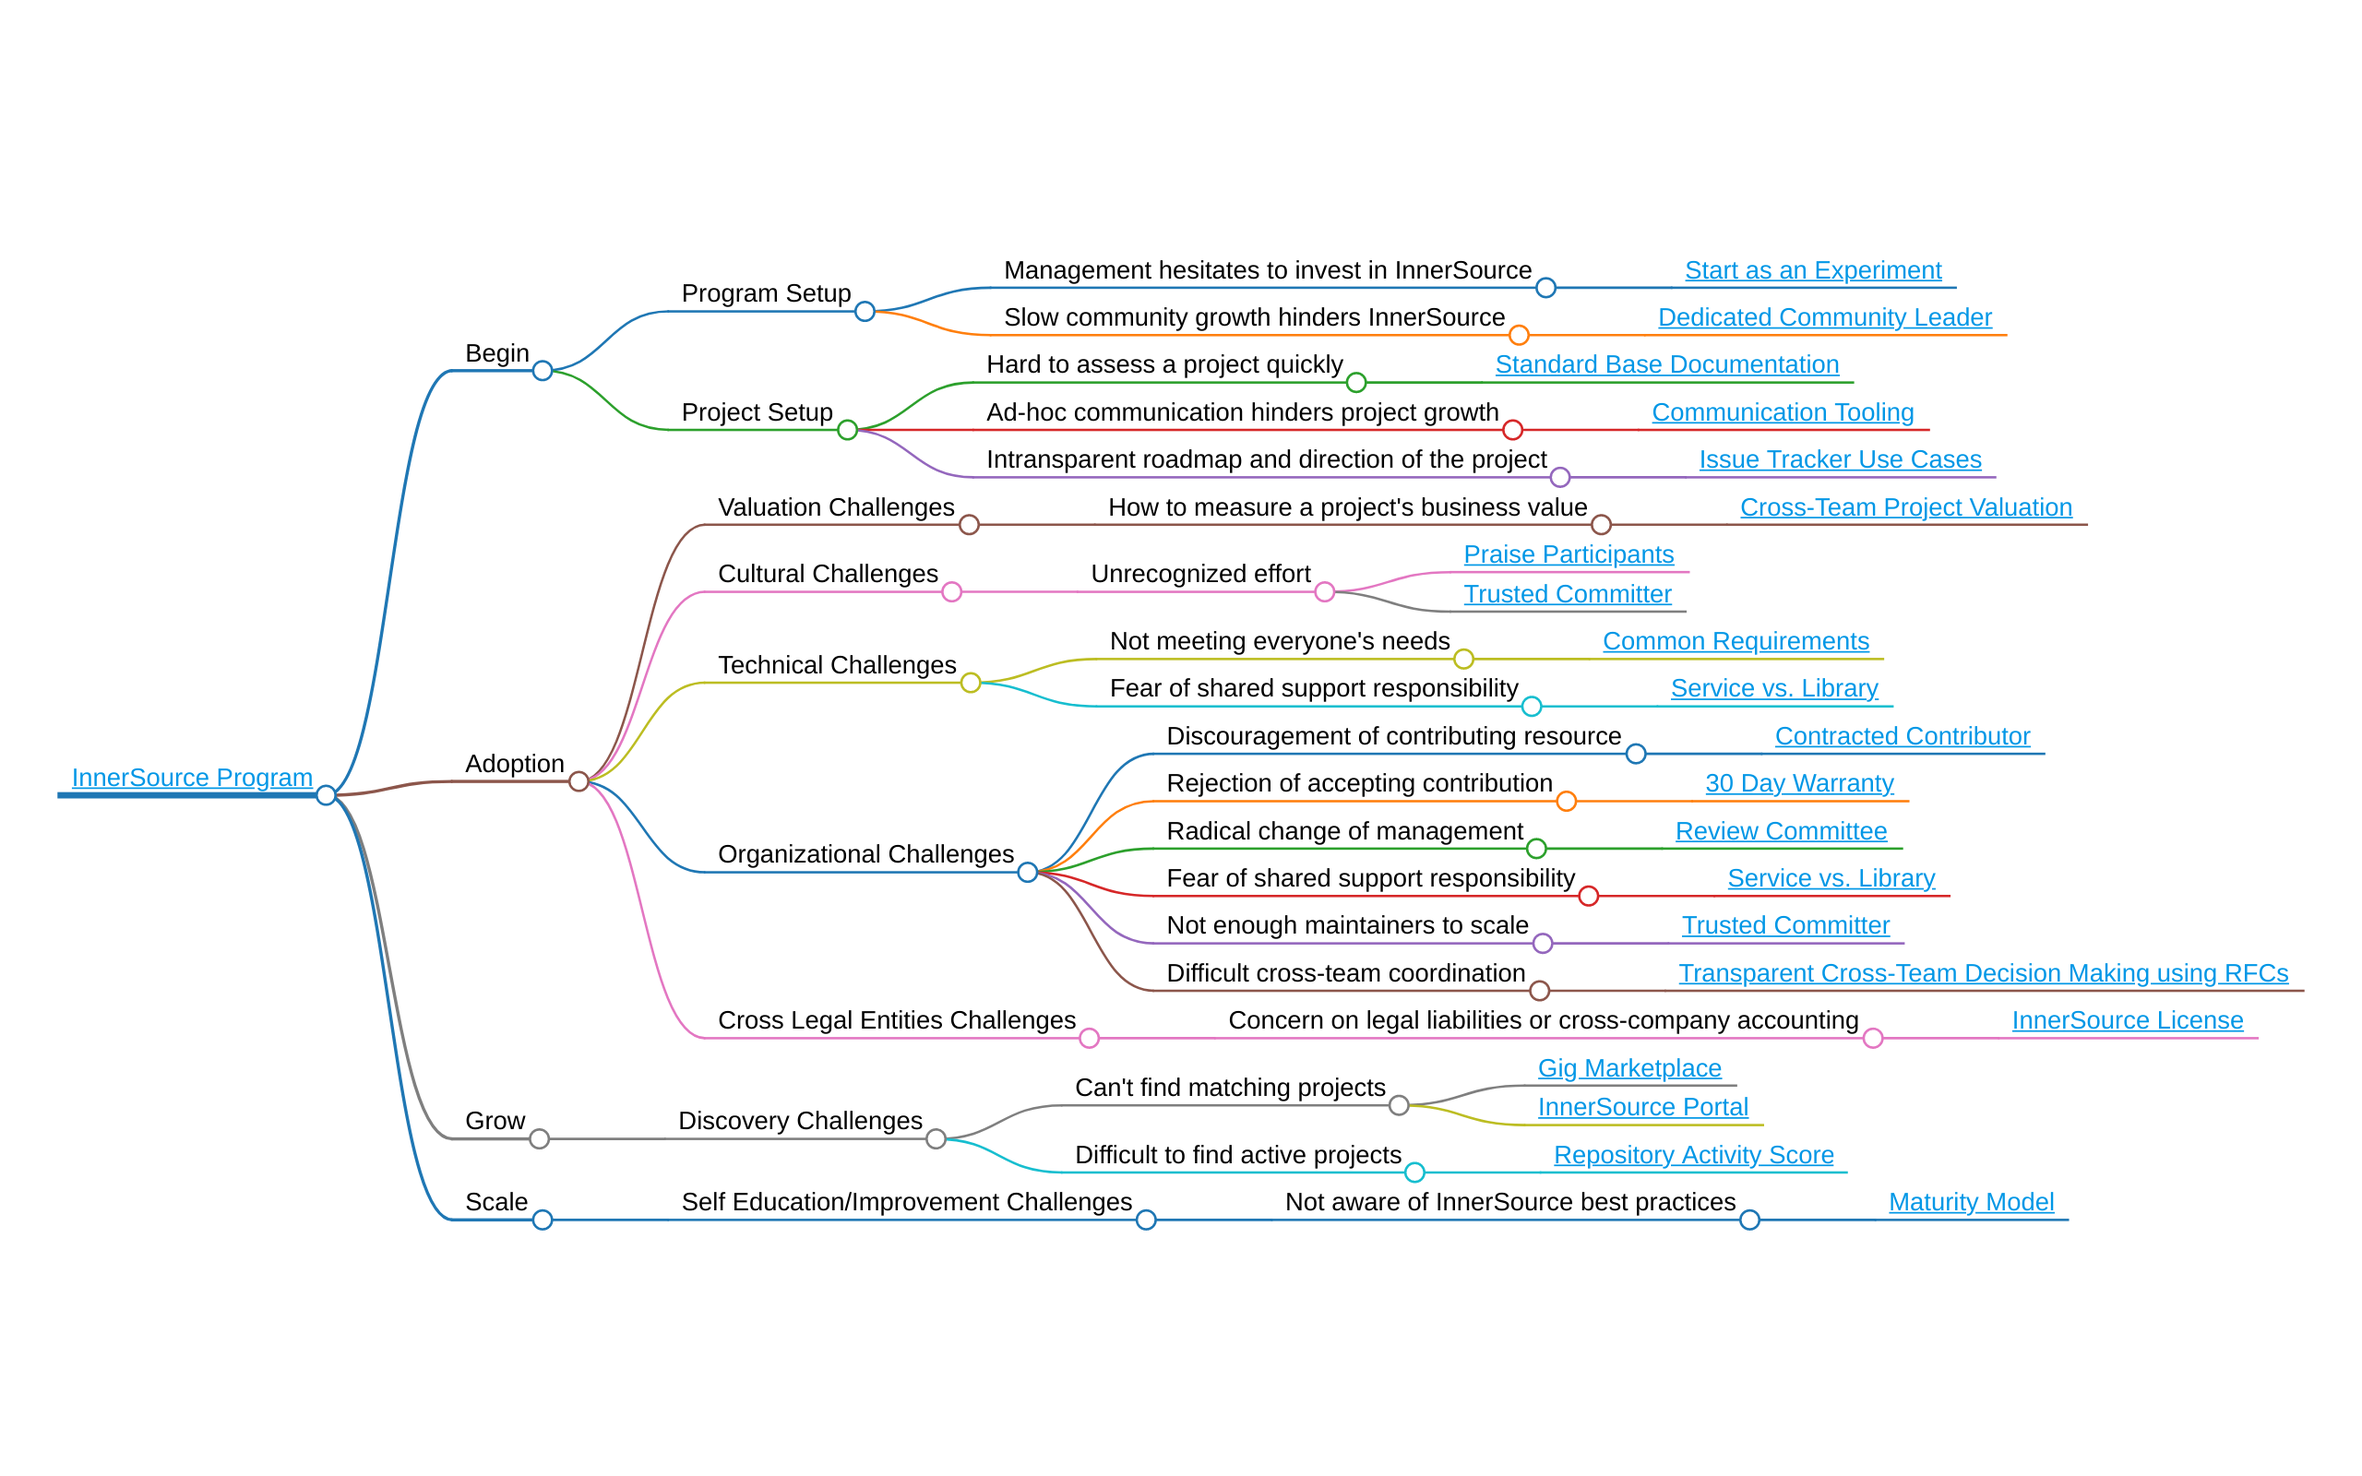
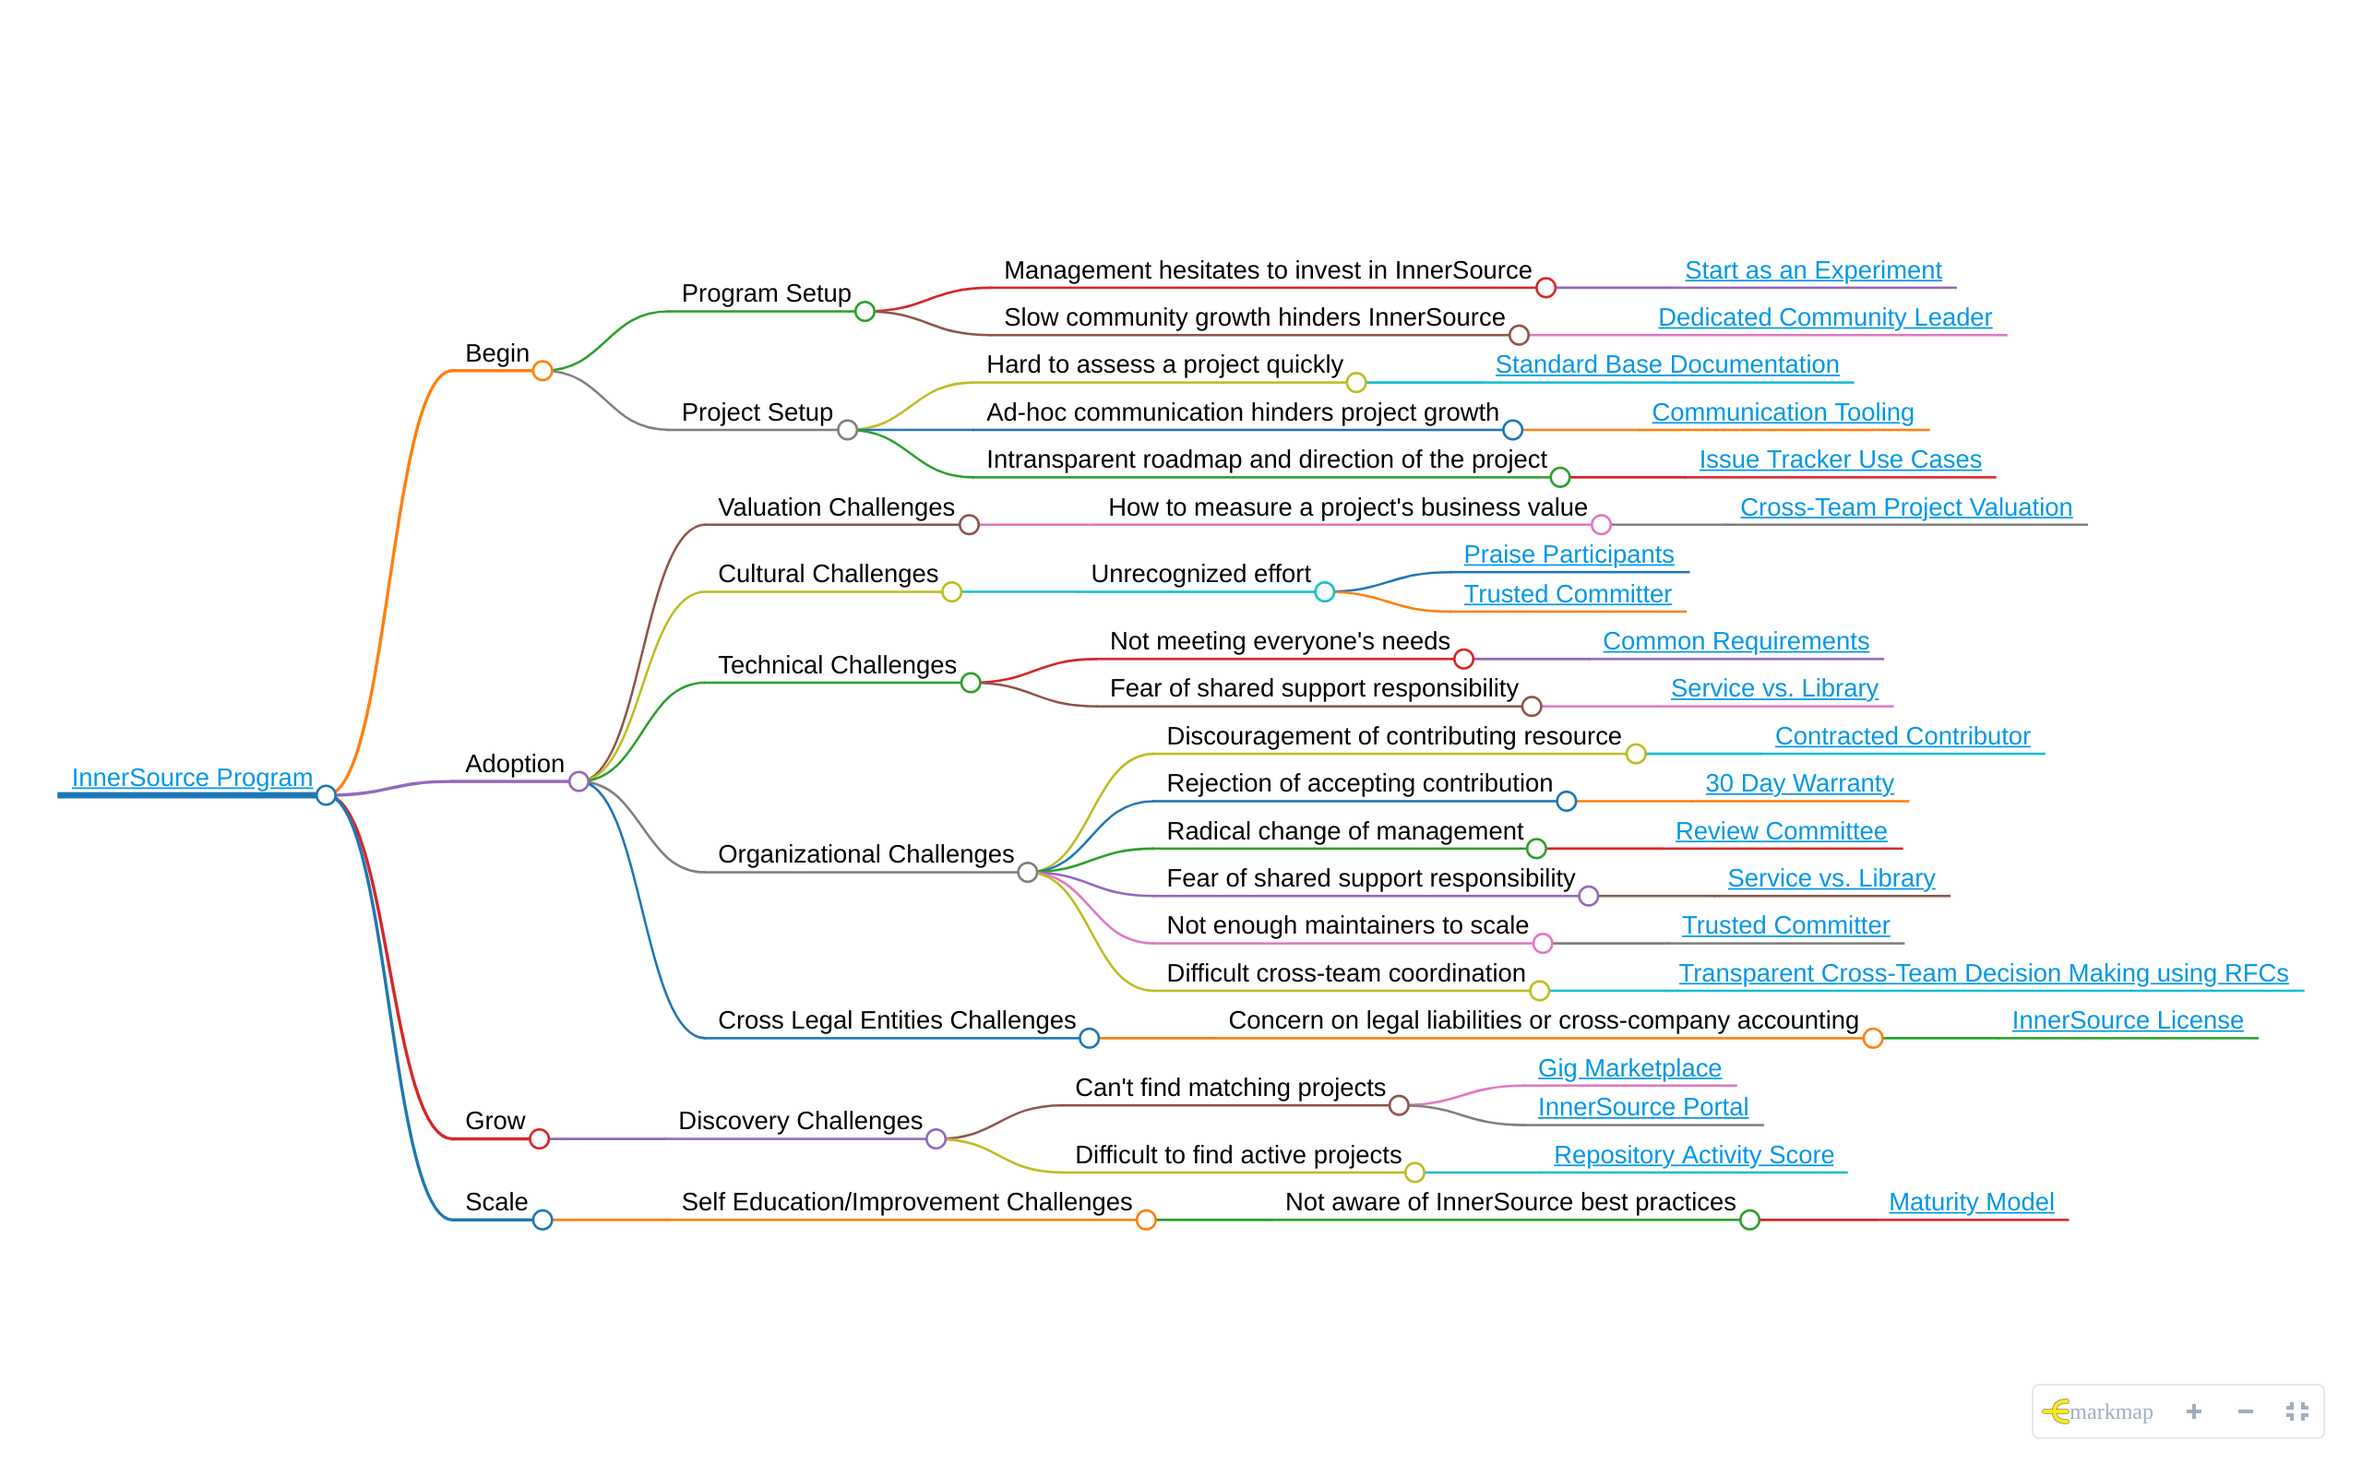
Re-creating markmap and screenshot

diff --git a/pattern-categorization/innersource-program-mind-map.html b/pattern-categorization/innersource-program-mind-map.html
@@ -16,16 +16,27 @@
   height: 100vh;
 }
 </style>
-
+<link rel="stylesheet" href="https://cdn.jsdelivr.net/npm/markmap-toolbar@0.1.6/dist/style.min.css">
 </head>
 <body>
 <svg id="mindmap"></svg>
-<script src="https://cdn.jsdelivr.net/npm/d3@5"></script><script src="https://cdn.jsdelivr.net/npm/markmap-lib@0.7.6/dist/browser/view.min.js"></script><script>((data, ...processors) => {
+<script src="https://cdn.jsdelivr.net/npm/d3@6.6.0"></script><script src="https://cdn.jsdelivr.net/npm/markmap-view@0.2.6"></script><script src="https://cdn.jsdelivr.net/npm/markmap-toolbar@0.1.6/dist/index.umd.min.js"></script><script>(r => {
+          setTimeout(r);
+        })(() => {
+  const {
+    markmap,
+    mm
+  } = window;
+  const toolbar = new markmap.Toolbar();
+  toolbar.attach(mm);
+  const el = toolbar.render();
+  el.setAttribute('style', 'position:absolute;bottom:20px;right:20px');
+  document.body.append(el);
+})</script><script>((getMarkmap, getOptions, data) => {
         const {
           Markmap
-        } = window.markmap;
-        Markmap.processors = processors;
-        Markmap.create('svg#mindmap', null, data);
-      })({"t":"heading","d":1,"v":"<a href=\"https://patterns.innersourcecommons.org/toc\" title=\"\" target=\"_blank\" rel=\"noopener noreferrer\">InnerSource Program</a>","c":[{"t":"heading","d":2,"v":"Begin","c":[{"t":"heading","d":3,"v":"Program Setup","c":[{"t":"heading","d":4,"v":"Management hesitates to invest in InnerSource","c":[{"t":"heading","d":5,"v":"<a href=\"https://patterns.innersourcecommons.org/p/start-as-experiment\" title=\"\" target=\"_blank\" rel=\"noopener noreferrer\">Start as an Experiment</a>"}]},{"t":"heading","d":4,"v":"Slow community growth hinders InnerSource","c":[{"t":"heading","d":5,"v":"<a href=\"https://patterns.innersourcecommons.org/p/dedicated-community-leader\" title=\"\" target=\"_blank\" rel=\"noopener noreferrer\">Dedicated Community Leader</a>"}]}]},{"t":"heading","d":3,"v":"Project Setup","c":[{"t":"heading","d":4,"v":"Hard to assess a project quickly","c":[{"t":"heading","d":5,"v":"<a href=\"https://patterns.innersourcecommons.org/p/base-documentation\" title=\"\" target=\"_blank\" rel=\"noopener noreferrer\">Standard Base Documentation</a>"}]},{"t":"heading","d":4,"v":"Ad-hoc communication hinders project growth","c":[{"t":"heading","d":5,"v":"<a href=\"https://patterns.innersourcecommons.org/p/communication-tooling\" title=\"\" target=\"_blank\" rel=\"noopener noreferrer\">Communication Tooling</a>"}]},{"t":"heading","d":4,"v":"Intransparent roadmap and direction of the project","c":[{"t":"heading","d":5,"v":"<a href=\"https://patterns.innersourcecommons.org/p/issue-tracker\" title=\"\" target=\"_blank\" rel=\"noopener noreferrer\">Issue Tracker Use Cases</a>"}]}]}]},{"t":"heading","d":2,"v":"Adoption","c":[{"t":"heading","d":3,"v":"Valuation Challenges","c":[{"t":"heading","d":4,"v":"How to measure a project's business value","c":[{"t":"heading","d":5,"v":"<a href=\"https://patterns.innersourcecommons.org/p/crossteam-project-valuation\" title=\"\" target=\"_blank\" rel=\"noopener noreferrer\">Cross-Team Project Valuation</a>"}]}]},{"t":"heading","d":3,"v":"Cultural Challenges","c":[{"t":"heading","d":4,"v":"Unrecognized effort","c":[{"t":"heading","d":5,"v":"<a href=\"https://patterns.innersourcecommons.org/p/praise-participants\" title=\"\" target=\"_blank\" rel=\"noopener noreferrer\">Praise Participants</a>"},{"t":"heading","d":5,"v":"<a href=\"https://patterns.innersourcecommons.org/p/trusted-committer\" title=\"\" target=\"_blank\" rel=\"noopener noreferrer\">Trusted Committer</a>"}]}]},{"t":"heading","d":3,"v":"Technical Challenges","c":[{"t":"heading","d":4,"v":"Not meeting everyone's needs","c":[{"t":"heading","d":5,"v":"<a href=\"https://patterns.innersourcecommons.org/p/common-requirements\" title=\"\" target=\"_blank\" rel=\"noopener noreferrer\">Common Requirements</a>"}]},{"t":"heading","d":4,"v":"Fear of shared support responsibility","c":[{"t":"heading","d":5,"v":"<a href=\"https://patterns.innersourcecommons.org/p/service-vs-library\" title=\"\" target=\"_blank\" rel=\"noopener noreferrer\">Service vs. Library</a>"}]}]},{"t":"heading","d":3,"v":"Organizational Challenges","c":[{"t":"heading","d":4,"v":"Discouragement of contributing resource","c":[{"t":"heading","d":5,"v":"<a href=\"https://patterns.innersourcecommons.org/p/contracted-contributor\" title=\"\" target=\"_blank\" rel=\"noopener noreferrer\">Contracted Contributor</a>"}]},{"t":"heading","d":4,"v":"Rejection of accepting contribution","c":[{"t":"heading","d":5,"v":"<a href=\"https://patterns.innersourcecommons.org/p/30-day-warranty\" title=\"\" target=\"_blank\" rel=\"noopener noreferrer\">30 Day Warranty</a>"}]},{"t":"heading","d":4,"v":"Radical change of management","c":[{"t":"heading","d":5,"v":"<a href=\"https://patterns.innersourcecommons.org/p/review-committee\" title=\"\" target=\"_blank\" rel=\"noopener noreferrer\">Review Committee</a>"}]},{"t":"heading","d":4,"v":"Fear of shared support responsibility","c":[{"t":"heading","d":5,"v":"<a href=\"https://patterns.innersourcecommons.org/p/service-vs-library\" title=\"\" target=\"_blank\" rel=\"noopener noreferrer\">Service vs. Library</a>"}]},{"t":"heading","d":4,"v":"Not enough maintainers to scale","c":[{"t":"heading","d":5,"v":"<a href=\"https://patterns.innersourcecommons.org/p/trusted-committer\" title=\"\" target=\"_blank\" rel=\"noopener noreferrer\">Trusted Committer</a>"}]},{"t":"heading","d":4,"v":"Difficult cross-team coordination","c":[{"t":"heading","d":5,"v":"<a href=\"https://patterns.innersourcecommons.org/p/transparent-cross-team-decision-making-using-rfcs\" title=\"\" target=\"_blank\" rel=\"noopener noreferrer\">Transparent Cross-Team Decision Making using RFCs</a>"}]}]},{"t":"heading","d":3,"v":"Cross Legal Entities Challenges","c":[{"t":"heading","d":4,"v":"Concern on legal liabilities or cross-company accounting","c":[{"t":"heading","d":5,"v":"<a href=\"https://patterns.innersourcecommons.org/p/innersource-license\" title=\"\" target=\"_blank\" rel=\"noopener noreferrer\">InnerSource License</a>"}]}]}]},{"t":"heading","d":2,"v":"Grow","c":[{"t":"heading","d":3,"v":"Discovery Challenges","c":[{"t":"heading","d":4,"v":"Can't find matching projects","c":[{"t":"heading","d":5,"v":"<a href=\"https://patterns.innersourcecommons.org/p/gig-marketplace\" title=\"\" target=\"_blank\" rel=\"noopener noreferrer\">Gig Marketplace</a>"},{"t":"heading","d":5,"v":"<a href=\"https://patterns.innersourcecommons.org/p/innersource-portal\" title=\"\" target=\"_blank\" rel=\"noopener noreferrer\">InnerSource Portal</a>"}]},{"t":"heading","d":4,"v":"Difficult to find active projects","c":[{"t":"heading","d":5,"v":"<a href=\"https://patterns.innersourcecommons.org/p/repository-activity-score\" title=\"\" target=\"_blank\" rel=\"noopener noreferrer\">Repository Activity Score</a>"}]}]}]},{"t":"heading","d":2,"v":"Scale","c":[{"t":"heading","d":3,"v":"Self Education/Improvement Challenges","c":[{"t":"heading","d":4,"v":"Not aware of InnerSource best practices","c":[{"t":"heading","d":5,"v":"<a href=\"https://patterns.innersourcecommons.org/p/maturity-model\" title=\"\" target=\"_blank\" rel=\"noopener noreferrer\">Maturity Model</a>"}]}]}]}]})</script>
+        } = getMarkmap();
+        window.mm = Markmap.create('svg#mindmap', getOptions == null ? void 0 : getOptions(), data);
+      })(() => window.markmap,null,{"t":"heading","d":1,"p":{"lines":[0,1]},"v":"<a href=\"https://patterns.innersourcecommons.org/toc\">InnerSource Program</a>","c":[{"t":"heading","d":2,"p":{"lines":[2,3]},"v":"Begin","c":[{"t":"heading","d":3,"p":{"lines":[4,5]},"v":"Program Setup","c":[{"t":"heading","d":4,"p":{"lines":[6,7]},"v":"Management hesitates to invest in InnerSource","c":[{"t":"heading","d":5,"p":{"lines":[8,9]},"v":"<a href=\"https://patterns.innersourcecommons.org/p/start-as-experiment\">Start as an Experiment</a>"}]},{"t":"heading","d":4,"p":{"lines":[10,11]},"v":"Slow community growth hinders InnerSource","c":[{"t":"heading","d":5,"p":{"lines":[12,13]},"v":"<a href=\"https://patterns.innersourcecommons.org/p/dedicated-community-leader\">Dedicated Community Leader</a>"}]}]},{"t":"heading","d":3,"p":{"lines":[14,15]},"v":"Project Setup","c":[{"t":"heading","d":4,"p":{"lines":[16,17]},"v":"Hard to assess a project quickly","c":[{"t":"heading","d":5,"p":{"lines":[18,19]},"v":"<a href=\"https://patterns.innersourcecommons.org/p/base-documentation\">Standard Base Documentation</a>"}]},{"t":"heading","d":4,"p":{"lines":[20,21]},"v":"Ad-hoc communication hinders project growth","c":[{"t":"heading","d":5,"p":{"lines":[22,23]},"v":"<a href=\"https://patterns.innersourcecommons.org/p/communication-tooling\">Communication Tooling</a>"}]},{"t":"heading","d":4,"p":{"lines":[24,25]},"v":"Intransparent roadmap and direction of the project","c":[{"t":"heading","d":5,"p":{"lines":[26,27]},"v":"<a href=\"https://patterns.innersourcecommons.org/p/issue-tracker\">Issue Tracker Use Cases</a>"}]}]}]},{"t":"heading","d":2,"p":{"lines":[28,29]},"v":"Adoption","c":[{"t":"heading","d":3,"p":{"lines":[30,31]},"v":"Valuation Challenges","c":[{"t":"heading","d":4,"p":{"lines":[32,33]},"v":"How to measure a project's business value","c":[{"t":"heading","d":5,"p":{"lines":[34,35]},"v":"<a href=\"https://patterns.innersourcecommons.org/p/crossteam-project-valuation\">Cross-Team Project Valuation</a>"}]}]},{"t":"heading","d":3,"p":{"lines":[36,37]},"v":"Cultural Challenges","c":[{"t":"heading","d":4,"p":{"lines":[38,39]},"v":"Unrecognized effort","c":[{"t":"heading","d":5,"p":{"lines":[40,41]},"v":"<a href=\"https://patterns.innersourcecommons.org/p/praise-participants\">Praise Participants</a>"},{"t":"heading","d":5,"p":{"lines":[42,43]},"v":"<a href=\"https://patterns.innersourcecommons.org/p/trusted-committer\">Trusted Committer</a>"}]}]},{"t":"heading","d":3,"p":{"lines":[44,45]},"v":"Technical Challenges","c":[{"t":"heading","d":4,"p":{"lines":[46,47]},"v":"Not meeting everyone's needs","c":[{"t":"heading","d":5,"p":{"lines":[48,49]},"v":"<a href=\"https://patterns.innersourcecommons.org/p/common-requirements\">Common Requirements</a>"}]},{"t":"heading","d":4,"p":{"lines":[50,51]},"v":"Fear of shared support responsibility","c":[{"t":"heading","d":5,"p":{"lines":[52,53]},"v":"<a href=\"https://patterns.innersourcecommons.org/p/service-vs-library\">Service vs. Library</a>"}]}]},{"t":"heading","d":3,"p":{"lines":[54,55]},"v":"Organizational Challenges","c":[{"t":"heading","d":4,"p":{"lines":[56,57]},"v":"Discouragement of contributing resource","c":[{"t":"heading","d":5,"p":{"lines":[58,59]},"v":"<a href=\"https://patterns.innersourcecommons.org/p/contracted-contributor\">Contracted Contributor</a>"}]},{"t":"heading","d":4,"p":{"lines":[60,61]},"v":"Rejection of accepting contribution","c":[{"t":"heading","d":5,"p":{"lines":[62,63]},"v":"<a href=\"https://patterns.innersourcecommons.org/p/30-day-warranty\">30 Day Warranty</a>"}]},{"t":"heading","d":4,"p":{"lines":[64,65]},"v":"Radical change of management","c":[{"t":"heading","d":5,"p":{"lines":[66,67]},"v":"<a href=\"https://patterns.innersourcecommons.org/p/review-committee\">Review Committee</a>"}]},{"t":"heading","d":4,"p":{"lines":[68,69]},"v":"Fear of shared support responsibility","c":[{"t":"heading","d":5,"p":{"lines":[70,71]},"v":"<a href=\"https://patterns.innersourcecommons.org/p/service-vs-library\">Service vs. Library</a>"}]},{"t":"heading","d":4,"p":{"lines":[72,73]},"v":"Not enough maintainers to scale","c":[{"t":"heading","d":5,"p":{"lines":[74,75]},"v":"<a href=\"https://patterns.innersourcecommons.org/p/trusted-committer\">Trusted Committer</a>"}]},{"t":"heading","d":4,"p":{"lines":[76,77]},"v":"Difficult cross-team coordination","c":[{"t":"heading","d":5,"p":{"lines":[78,79]},"v":"<a href=\"https://patterns.innersourcecommons.org/p/transparent-cross-team-decision-making-using-rfcs\">Transparent Cross-Team Decision Making using RFCs</a>"}]}]},{"t":"heading","d":3,"p":{"lines":[80,81]},"v":"Cross Legal Entities Challenges","c":[{"t":"heading","d":4,"p":{"lines":[82,83]},"v":"Concern on legal liabilities or cross-company accounting","c":[{"t":"heading","d":5,"p":{"lines":[84,85]},"v":"<a href=\"https://patterns.innersourcecommons.org/p/innersource-license\">InnerSource License</a>"}]}]}]},{"t":"heading","d":2,"p":{"lines":[86,87]},"v":"Grow","c":[{"t":"heading","d":3,"p":{"lines":[88,89]},"v":"Discovery Challenges","c":[{"t":"heading","d":4,"p":{"lines":[90,91]},"v":"Can't find matching projects","c":[{"t":"heading","d":5,"p":{"lines":[92,93]},"v":"<a href=\"https://patterns.innersourcecommons.org/p/gig-marketplace\">Gig Marketplace</a>"},{"t":"heading","d":5,"p":{"lines":[94,95]},"v":"<a href=\"https://patterns.innersourcecommons.org/p/innersource-portal\">InnerSource Portal</a>"}]},{"t":"heading","d":4,"p":{"lines":[96,97]},"v":"Difficult to find active projects","c":[{"t":"heading","d":5,"p":{"lines":[98,99]},"v":"<a href=\"https://patterns.innersourcecommons.org/p/repository-activity-score\">Repository Activity Score</a>"}]}]}]},{"t":"heading","d":2,"p":{"lines":[100,101]},"v":"Scale","c":[{"t":"heading","d":3,"p":{"lines":[102,103]},"v":"Self Education/Improvement Challenges","c":[{"t":"heading","d":4,"p":{"lines":[104,105]},"v":"Not aware of InnerSource best practices","c":[{"t":"heading","d":5,"p":{"lines":[106,107]},"v":"<a href=\"https://patterns.innersourcecommons.org/p/maturity-model\">Maturity Model</a>"}]}]}]}]})</script>
 </body>
 </html>
